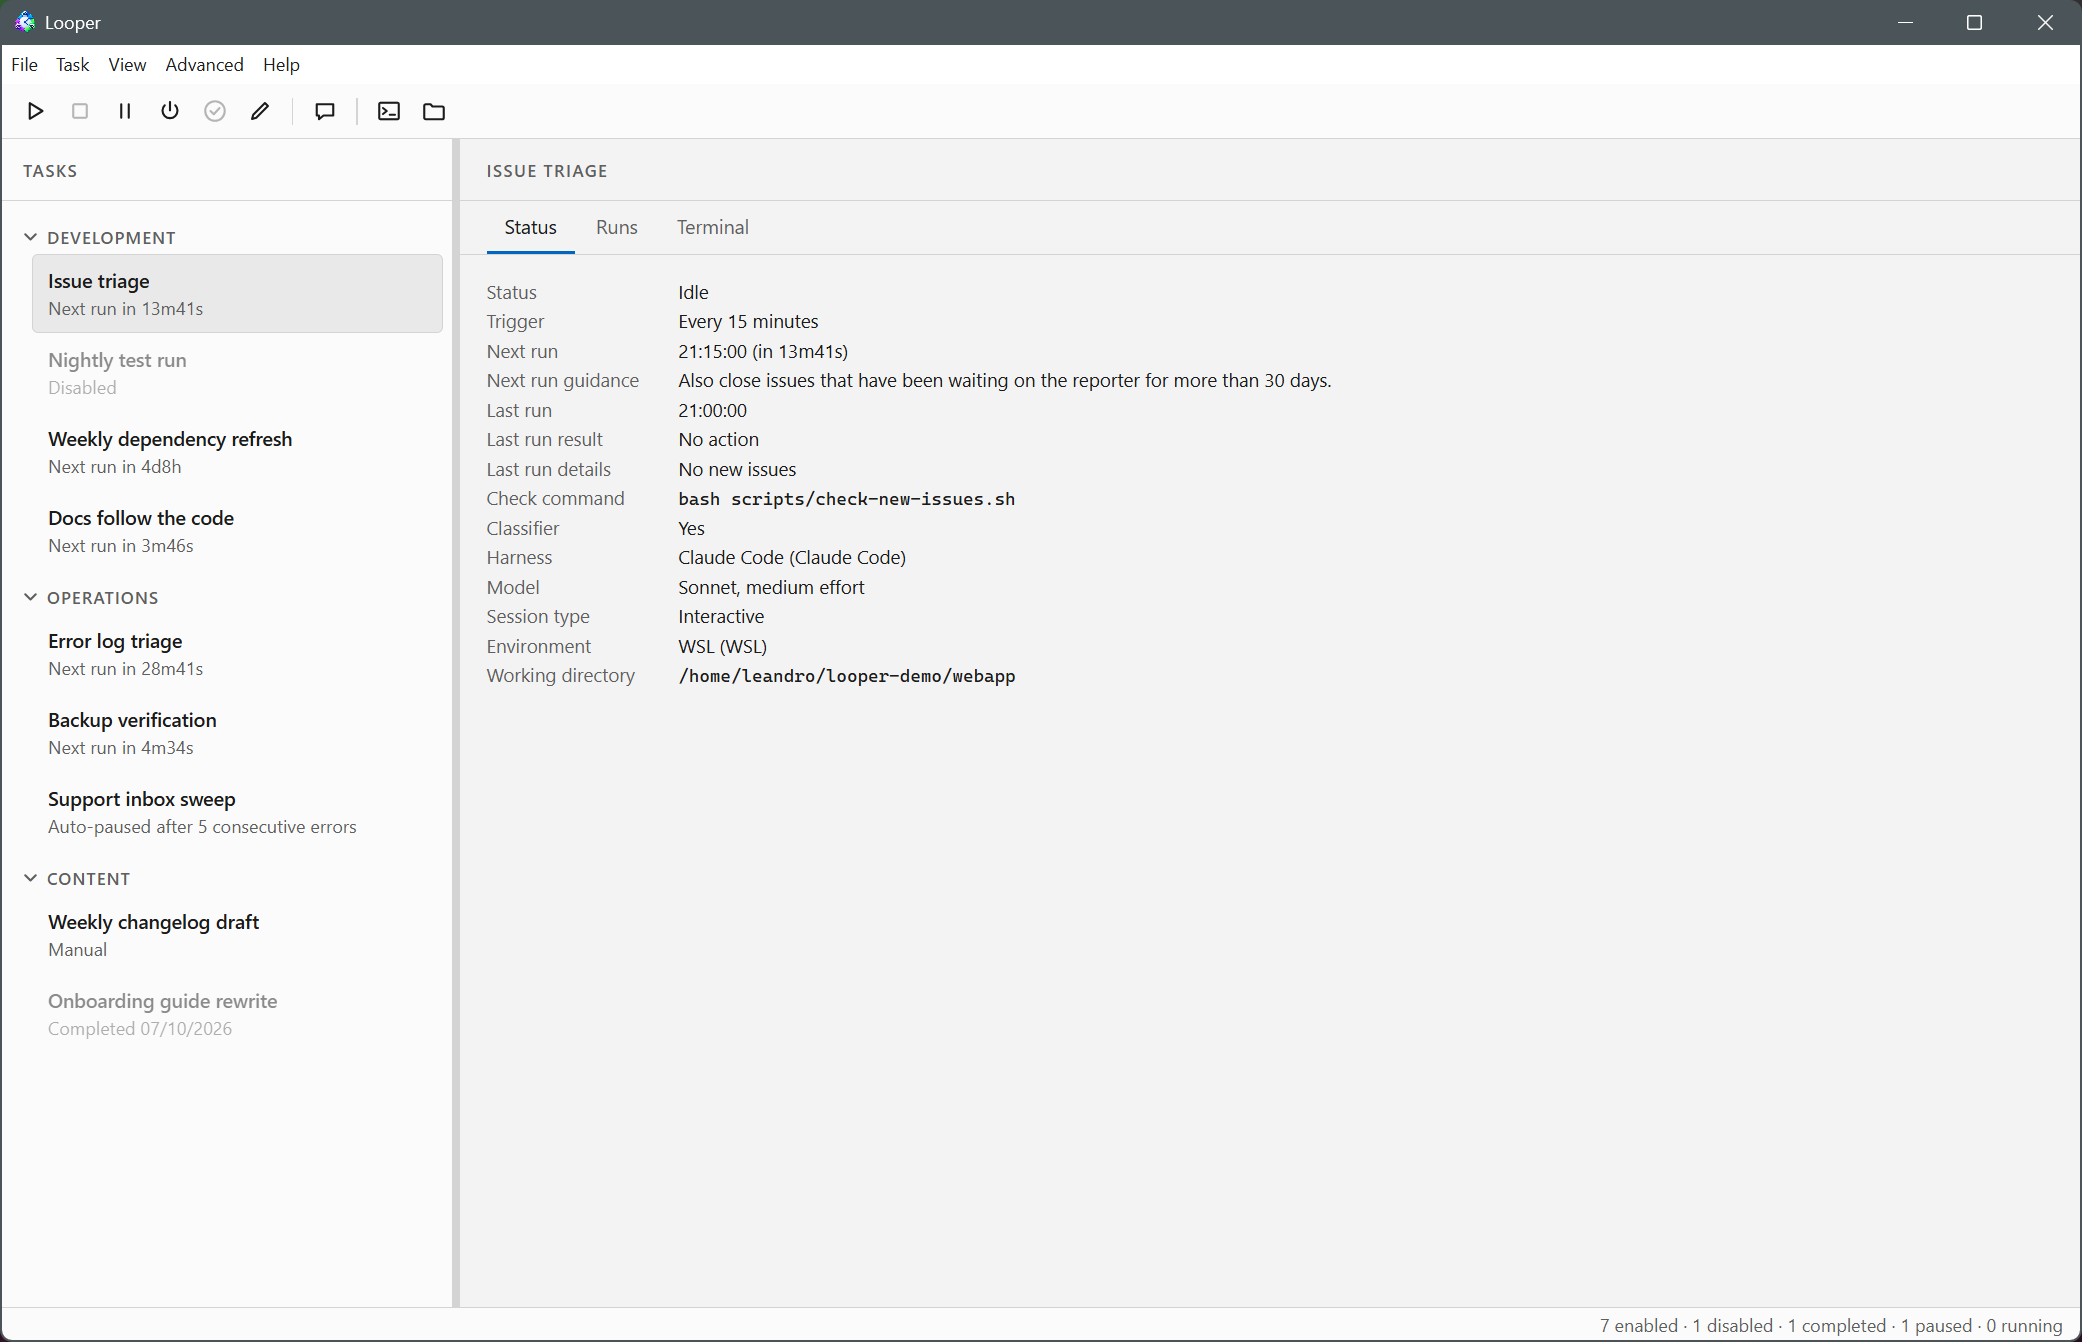
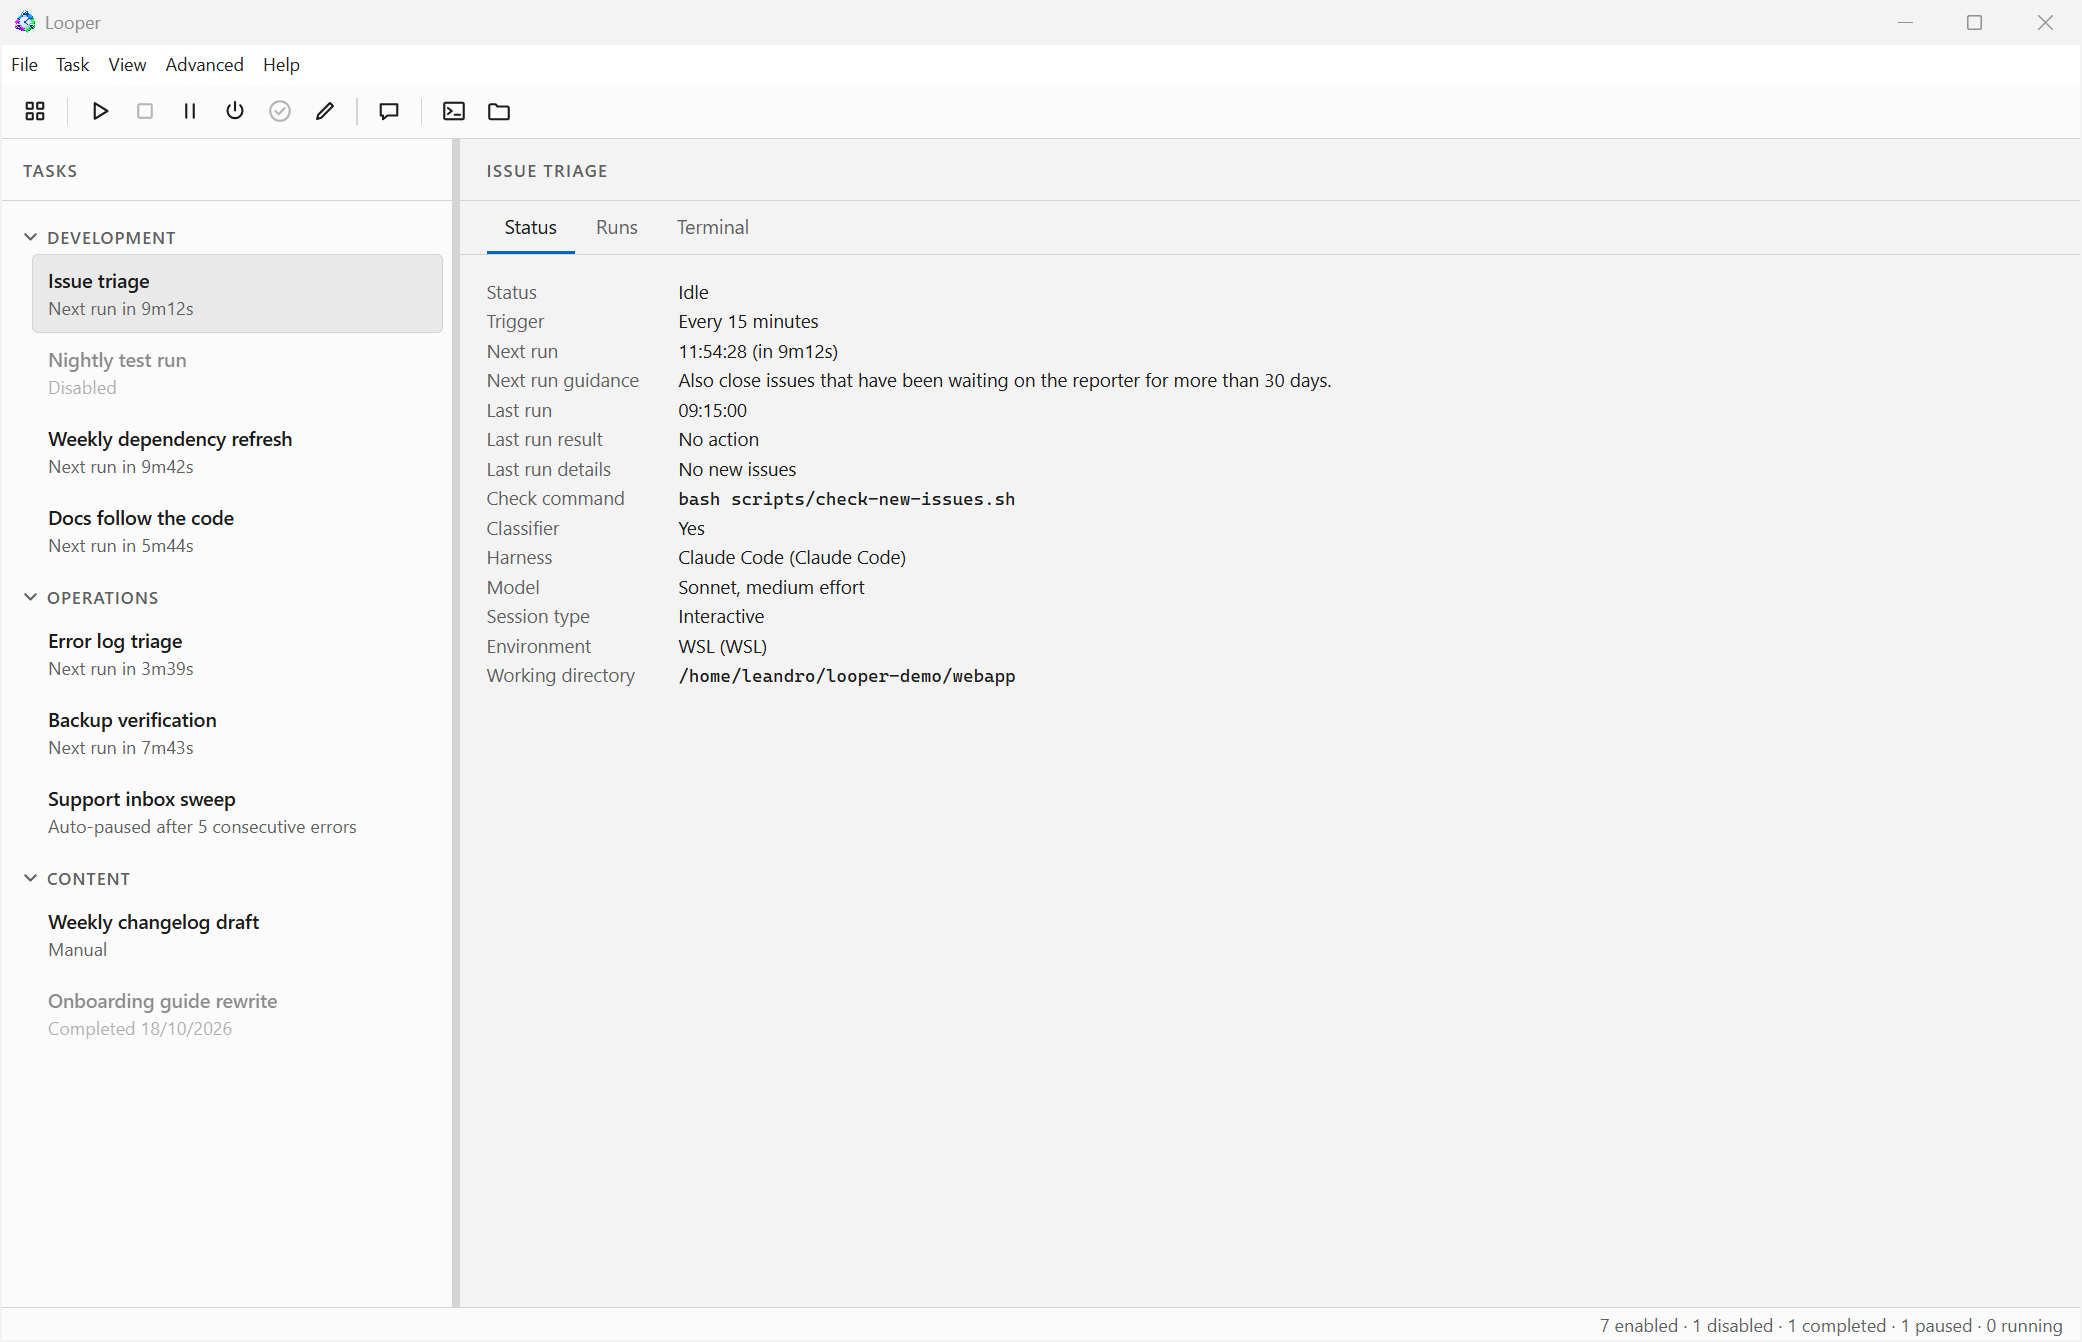
Reorder the dashboard and keep Needs attention runs out of Recent runs
The dashboard now shows Running now, Needs attention, Recent runs, then
Remote Control. A run Needs attention lists no longer repeats in Recent
runs, which reads one extra run per attention row to stay at 10. The docs
get a dashboard screenshot, and the main window screenshot gains the
toolbar's Dashboard button.

Claude-Session: https://claude.ai/code/session_014prgjKJpbuynFYDa54r2XE

diff --git a/src/renderer/src/components/Dashboard.tsx b/src/renderer/src/components/Dashboard.tsx
@@ -128,6 +128,54 @@ export function Dashboard({ attention, running, remote, recent, runtimes, now, p
       </div>
       <div className="dashboard">
         <section className="dashboard-section">
+          <span className="pane-title">Running now</span>
+          {running.length === 0 ? (
+            <div className="dashboard-empty muted">Nothing is running.</div>
+          ) : (
+            <div className="dashboard-list" tabIndex={0} role="listbox" aria-label="Running now" onKeyDown={runningKeys}>
+              <table className="runlog-table">
+                <colgroup>
+                  <col style={{ width: 240 }} />
+                  <col />
+                  <col style={{ width: 110 }} />
+                  <col style={{ width: STARTED_WIDTH }} />
+                  <col style={{ width: 100 }} />
+                </colgroup>
+                <thead>
+                  <tr>
+                    <th>Task</th>
+                    <th>Step</th>
+                    <th>Trigger</th>
+                    <th className="num">Started</th>
+                    <th className="num">Elapsed</th>
+                  </tr>
+                </thead>
+                <tbody>
+                  {running.map((r) => {
+                    const p = runningPick(r);
+                    return (
+                      <tr
+                        key={r.runId}
+                        className={`run-row${isPicked(p.list, p.taskId, p.runId) ? ' selected' : ''}`}
+                        onClick={() => onPick(p)}
+                        onDoubleClick={() => openRunning(r)}
+                        onContextMenu={menu(r.task, p)}
+                      >
+                        <td title={r.task.name}>{r.task.name}</td>
+                        <td>{r.run.held ? 'Waiting for you' : STEP_LABELS[r.run.state]}</td>
+                        <td>{TRIGGER_LABELS[r.run.trigger]}</td>
+                        <td className="num">{fmtClock(r.run.startedAt, now)}</td>
+                        <td className="num">{now - r.run.startedAt < 1000 ? '0s' : formatDuration(now - r.run.startedAt)}</td>
+                      </tr>
+                    );
+                  })}
+                </tbody>
+              </table>
+            </div>
+          )}
+        </section>
+
+        <section className="dashboard-section">
           <span className="pane-title">Needs attention</span>
           {attention.length === 0 ? (
             <div className="dashboard-empty muted">Nothing needs attention.</div>
@@ -173,44 +221,48 @@ export function Dashboard({ attention, running, remote, recent, runtimes, now, p
         </section>
 
         <section className="dashboard-section">
-          <span className="pane-title">Running now</span>
-          {running.length === 0 ? (
-            <div className="dashboard-empty muted">Nothing is running.</div>
+          <span className="pane-title">Recent runs</span>
+          {recent && recentRuns.length === 0 ? (
+            <div className="dashboard-empty muted">No runs yet.</div>
           ) : (
-            <div className="dashboard-list" tabIndex={0} role="listbox" aria-label="Running now" onKeyDown={runningKeys}>
+            <div className="dashboard-list" tabIndex={0} role="listbox" aria-label="Recent runs" onKeyDown={recentKeys}>
               <table className="runlog-table">
                 <colgroup>
                   <col style={{ width: 240 }} />
-                  <col />
                   <col style={{ width: 110 }} />
+                  <col />
                   <col style={{ width: STARTED_WIDTH }} />
                   <col style={{ width: 100 }} />
                 </colgroup>
                 <thead>
                   <tr>
                     <th>Task</th>
-                    <th>Step</th>
-                    <th>Trigger</th>
+                    <th>Result</th>
+                    <th>Details</th>
                     <th className="num">Started</th>
-                    <th className="num">Elapsed</th>
+                    <th className="num">Duration</th>
                   </tr>
                 </thead>
                 <tbody>
-                  {running.map((r) => {
-                    const p = runningPick(r);
+                  {recentRuns.map((r) => {
+                    const p = recentPick(r);
                     return (
                       <tr
-                        key={r.runId}
-                        className={`run-row${isPicked(p.list, p.taskId, p.runId) ? ' selected' : ''}`}
+                        key={`${r.taskId}-${r.runId}`}
+                        className={`result-${r.result} run-row${isPicked(p.list, p.taskId, p.runId) ? ' selected' : ''}`}
                         onClick={() => onPick(p)}
-                        onDoubleClick={() => openRunning(r)}
-                        onContextMenu={menu(r.task, p)}
+                        onDoubleClick={() => openRecent(r)}
+                        onContextMenu={(e) => {
+                          e.preventDefault();
+                          onPick(p);
+                          window.looper.showRunContextMenu({ taskId: r.taskId, runId: r.runId, details: r.details });
+                        }}
                       >
-                        <td title={r.task.name}>{r.task.name}</td>
-                        <td>{r.run.held ? 'Waiting for you' : STEP_LABELS[r.run.state]}</td>
-                        <td>{TRIGGER_LABELS[r.run.trigger]}</td>
-                        <td className="num">{fmtClock(r.run.startedAt, now)}</td>
-                        <td className="num">{now - r.run.startedAt < 1000 ? '0s' : formatDuration(now - r.run.startedAt)}</td>
+                        <td title={r.taskName}>{r.taskName}</td>
+                        <td>{isRunning(r) ? 'Running' : resultLabel(r.result)}</td>
+                        <td title={r.details}>{r.details}</td>
+                        <td className="num">{fmtClock(Date.parse(r.startTs), now)}</td>
+                        <td className="num">{r.totalDurationMs > 0 ? formatDuration(r.totalDurationMs) : ''}</td>
                       </tr>
                     );
                   })}
@@ -270,58 +322,6 @@ export function Dashboard({ attention, running, remote, recent, runtimes, now, p
             )}
           </section>
         )}
-
-        <section className="dashboard-section">
-          <span className="pane-title">Recent runs</span>
-          {recent && recentRuns.length === 0 ? (
-            <div className="dashboard-empty muted">No runs yet.</div>
-          ) : (
-            <div className="dashboard-list" tabIndex={0} role="listbox" aria-label="Recent runs" onKeyDown={recentKeys}>
-              <table className="runlog-table">
-                <colgroup>
-                  <col style={{ width: 240 }} />
-                  <col style={{ width: 110 }} />
-                  <col />
-                  <col style={{ width: STARTED_WIDTH }} />
-                  <col style={{ width: 100 }} />
-                </colgroup>
-                <thead>
-                  <tr>
-                    <th>Task</th>
-                    <th>Result</th>
-                    <th>Details</th>
-                    <th className="num">Started</th>
-                    <th className="num">Duration</th>
-                  </tr>
-                </thead>
-                <tbody>
-                  {recentRuns.map((r) => {
-                    const p = recentPick(r);
-                    return (
-                      <tr
-                        key={`${r.taskId}-${r.runId}`}
-                        className={`result-${r.result} run-row${isPicked(p.list, p.taskId, p.runId) ? ' selected' : ''}`}
-                        onClick={() => onPick(p)}
-                        onDoubleClick={() => openRecent(r)}
-                        onContextMenu={(e) => {
-                          e.preventDefault();
-                          onPick(p);
-                          window.looper.showRunContextMenu({ taskId: r.taskId, runId: r.runId, details: r.details });
-                        }}
-                      >
-                        <td title={r.taskName}>{r.taskName}</td>
-                        <td>{isRunning(r) ? 'Running' : resultLabel(r.result)}</td>
-                        <td title={r.details}>{r.details}</td>
-                        <td className="num">{fmtClock(Date.parse(r.startTs), now)}</td>
-                        <td className="num">{r.totalDurationMs > 0 ? formatDuration(r.totalDurationMs) : ''}</td>
-                      </tr>
-                    );
-                  })}
-                </tbody>
-              </table>
-            </div>
-          )}
-        </section>
       </div>
     </div>
   );

diff --git a/src/renderer/src/App.tsx b/src/renderer/src/App.tsx
@@ -53,6 +53,12 @@ export function App() {
 
   const attention = useMemo(() => attentionRows(tasks, runtimes), [tasks, runtimes]);
   const running = useMemo(() => runningRows(tasks, runtimes), [tasks, runtimes]);
+  // A run Needs attention lists stays out of Recent runs.
+  const recentShown = useMemo(() => {
+    if (!recent) return null;
+    const listed = new Set(attention.map((r) => `${r.task.id}/${r.runId ?? r.lastRunId}`));
+    return recent.filter((r) => !listed.has(`${r.taskId}/${r.runId}`)).slice(0, RECENT_RUNS);
+  }, [recent, attention]);
   // Remote Control's open conversations while it runs; null while it's stopped.
   const remoteOpen = useMemo(
     () => (remote?.running ? remote.conversations.filter((c) => c.status !== 'ended') : null),
@@ -63,7 +69,7 @@ export function App() {
     list === 'remote'
       ? (remoteOpen ?? []).map((c) => ({ taskId: c.taskId, runId: c.id }))
       : list === 'recent'
-        ? (recent ?? []).map((r) => ({ taskId: r.taskId, runId: r.runId }))
+        ? (recentShown ?? []).map((r) => ({ taskId: r.taskId, runId: r.runId }))
         : (list === 'attention' ? attention : running).map((r) => ({ taskId: r.task.id, runId: r.runId }));
   const livePick =
     !selected && pick && pickedRows(pick.list).some((r) => r.taskId === pick.taskId && r.runId === pick.runId) ? pick : null;
@@ -272,14 +278,16 @@ export function App() {
   const infoLoaded = info !== null;
   const hideNoActionRuns = info?.settings.view.hideNoActionRuns ?? false;
   const hideChatsAndTerminals = info?.settings.view.hideChatsAndTerminals ?? false;
+  // Each Needs attention row can hide one run from Recent runs: read that many more.
+  const recentLimit = RECENT_RUNS + attention.length;
   useEffect(() => {
     if (selected || !infoLoaded) return;
     // A run writes its records in quick bursts: read once the burst is over.
     const t = setTimeout(() => {
-      void window.looper.runs.recent(RECENT_RUNS, { hideNoAction: hideNoActionRuns, hideChatsAndTerminals }).then(setRecent);
+      void window.looper.runs.recent(recentLimit, { hideNoAction: hideNoActionRuns, hideChatsAndTerminals }).then(setRecent);
     }, 200);
     return () => clearTimeout(t);
-  }, [selected, infoLoaded, hideNoActionRuns, hideChatsAndTerminals, runsChanged]);
+  }, [selected, infoLoaded, hideNoActionRuns, hideChatsAndTerminals, runsChanged, recentLimit]);
 
   const selectedState = target ? runtimes[target]?.state : undefined;
   const selectedActiveRuns = target ? runtimes[target]?.runs.length ?? 0 : 0;
@@ -398,7 +406,7 @@ export function App() {
               attention={attention}
               running={running}
               remote={remoteOpen}
-              recent={recent}
+              recent={recentShown}
               runtimes={runtimes}
               now={now}
               pick={livePick}

diff --git a/tests/recent-runs.test.ts b/tests/recent-runs.test.ts
@@ -1,4 +1,4 @@
-import { mkdtempSync } from 'node:fs';
+import { mkdtempSync, rmSync } from 'node:fs';
 import { tmpdir } from 'node:os';
 import { join } from 'node:path';
 import { afterEach, describe, expect, it } from 'vitest';
@@ -16,13 +16,15 @@ function rec(taskId: string, runId: string, ts: string, phase: RunRecord['phase'
 
 describe('engine recent runs', () => {
   let engine: Engine | null = null;
+  let dataDir = '';
   afterEach(async () => {
     await engine?.stop();
     engine = null;
+    rmSync(dataDir, { recursive: true, force: true });
   });
 
   it('lists the newest shown runs across tasks, newest first', () => {
-    const dataDir = mkdtempSync(join(tmpdir(), 'looper-recent-'));
+    dataDir = mkdtempSync(join(tmpdir(), 'looper-recent-'));
     engine = createEngine({ dataDir });
     engine.start();
     engine.saveTask(task('t1', 'First'));

diff --git a/docs/monitoring.md b/docs/monitoring.md
@@ -25,6 +25,13 @@ window opens on, and you get back to it with the Dashboard button at the
 start of the toolbar, **View → Dashboard**, or a click on the empty space
 below the task list.
 
+![The dashboard: Running now, Needs attention, and Recent runs](img/dashboard.png)
+
+**Running now** lists every run in progress, oldest first: the task, its
+step (Checking, Classifying, Running agent, or Waiting for you), what
+triggered it (Schedule, Manual, or Event), when it started, and how long it
+has been going.
+
 **Needs attention** lists each task that needs you, errors first, with the
 problem and when its run started. A task is listed when:
 
@@ -37,16 +44,15 @@ problem and when its run started. A task is listed when:
 
 Disabled and completed tasks aren't listed.
 
-**Running now** lists every run in progress, oldest first: the task, its
-step (Checking, Classifying, Running agent, or Waiting for you), what
-triggered it (Schedule, Manual, or Event), when it started, and how long it
-has been going.
-
 **Recent runs** lists the 10 latest runs across every task and Remote
 Control folder project, newest first: the task, its result (Running while
-it's in progress), its details, when it started, and how long it took. It
-follows the same Task Logs filters as the Runs tab (Hide Runs with No
-Action, Hide Chats and Terminals).
+it's in progress), its details, when it started, and how long it took. A
+run that Needs attention lists isn't repeated here. It follows the same
+Task Logs filters as the Runs tab (Hide Runs with No Action, Hide Chats and
+Terminals).
+
+**Remote Control** shows while Remote Control is on and lists its open
+sessions: the session, its status, its last message, and when it started.
 
 While the dashboard shows, the toolbar's task buttons are off. Clicking a
 row picks it, and the Task menu and the row's right-click menu then act on
